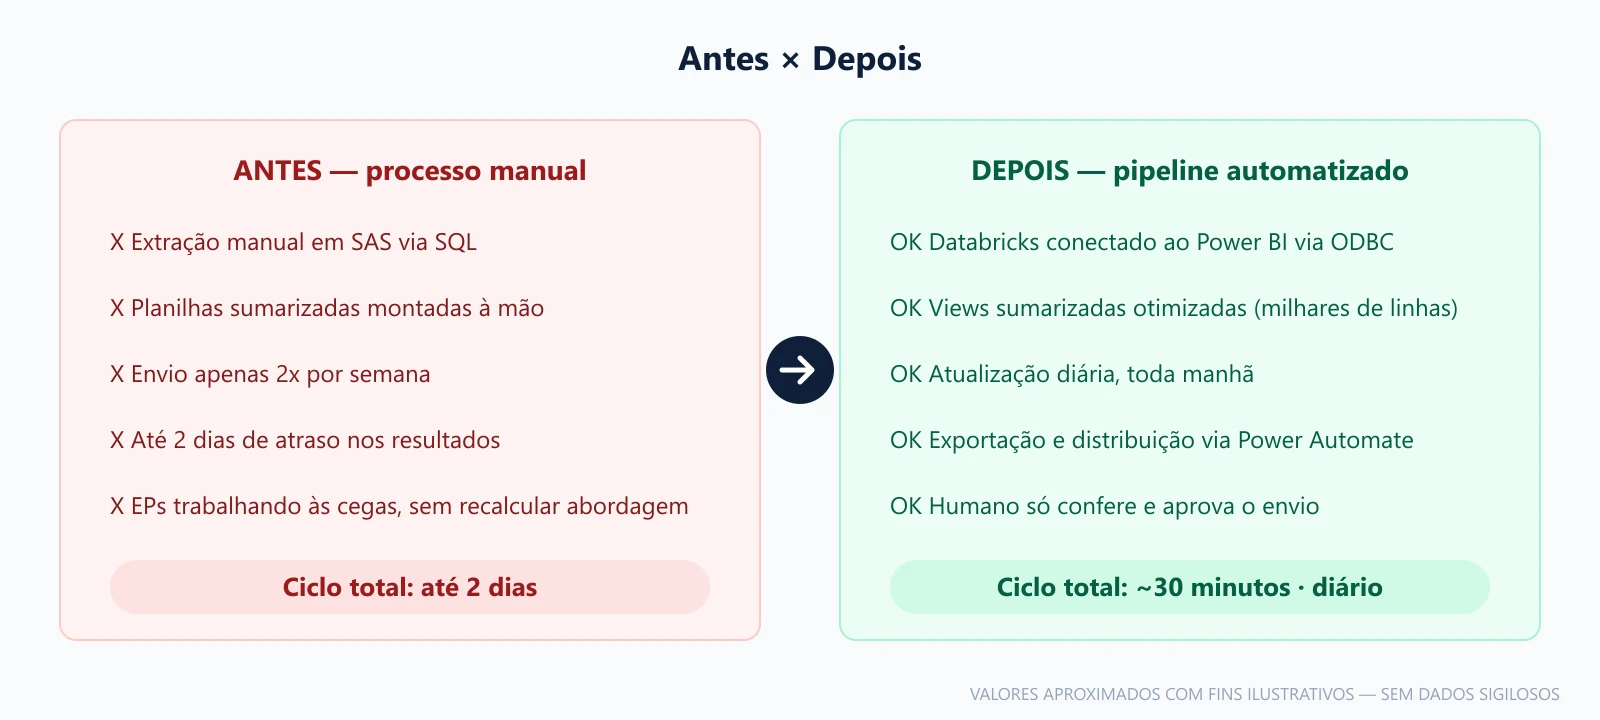
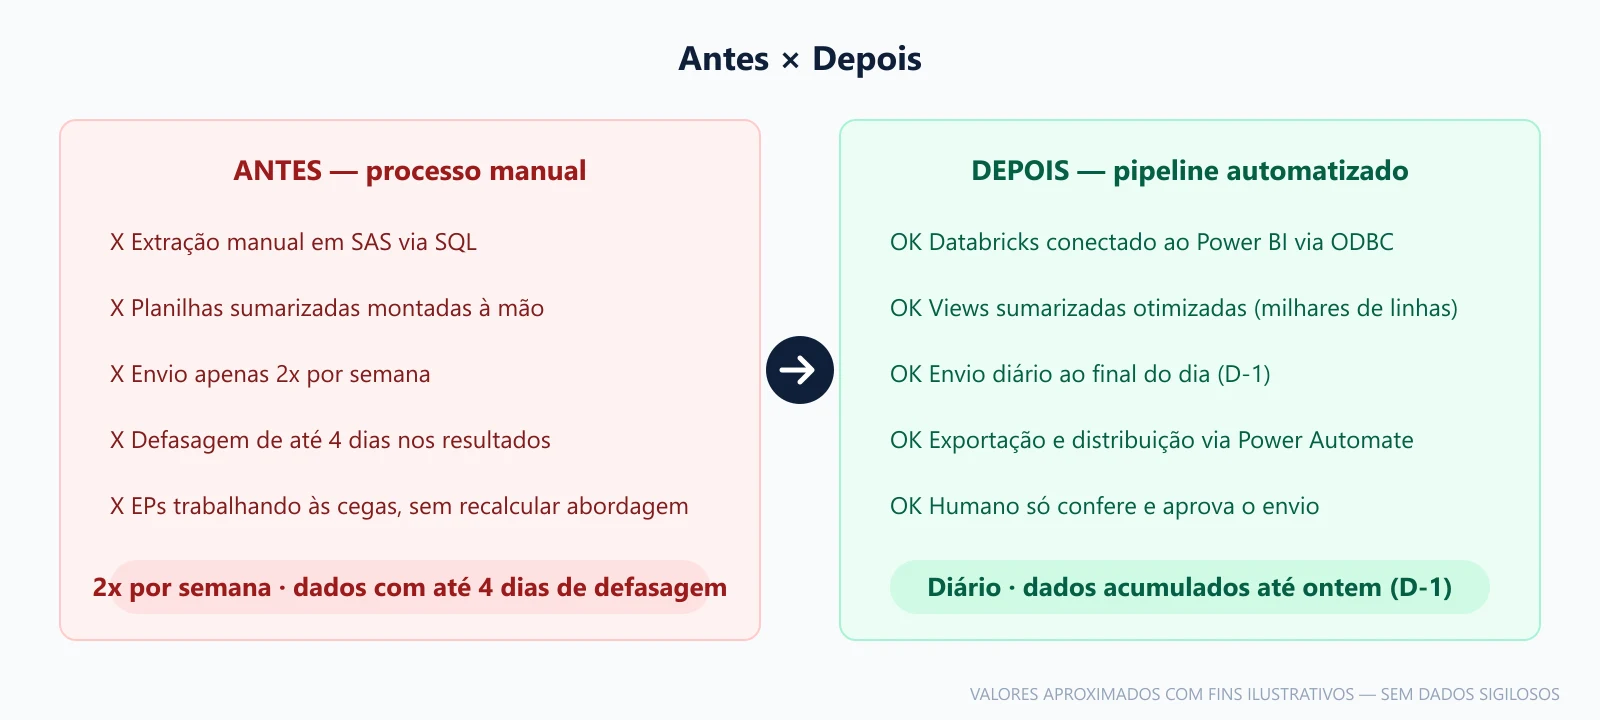
fix: correct report timing facts and genericize schema names
Reports are sent end-of-day with D-1 data (not mornings); legacy process
had up to 4-day lag (Tue/Thu cadence). Dimension names in diagrams and
text replaced with generic equivalents to avoid exposing internal model.

Generated with [Devin](https://devin.ai)

diff --git a/src/translation/languages/pt/pt.ts b/src/translation/languages/pt/pt.ts
@@ -299,21 +299,21 @@ const messages = {
         study_cases_evolution_title: 'Evolução Contínua',
         study_cases_evolution_description: 'Através destes estudos de caso, demonstro minha evolução contínua em Product Design, aplicando metodologias centradas no usuário e mantendo um Design System robusto e escalável.',        
         santander_case_title: 'Ranking de Meritocracia — Recuperação de Crédito',
-        santander_case_summary: 'Painel gerencial que define a remuneração variável de 9 empresas de cobrança. Pipeline de dados redesenhado de ponta a ponta: o que levava até 2 dias e saía 2x por semana agora chega toda manhã — ciclo completo em ~30 minutos.',
+        santander_case_summary: 'Painel gerencial que define a remuneração variável de 9 empresas de cobrança. Pipeline de dados redesenhado de ponta a ponta: o que saía apenas 2x por semana, com defasagem de até 4 dias, agora é enviado todo dia útil ao final do dia, com resultados acumulados até ontem (D-1) — ciclo completo em ~30 minutos.',
         sant_overview_title: 'Visão geral',
         sant_overview_p1: 'Case do meu trabalho atual como Data Visualization Specialist na MJV, alocado no Santander, no setor de recuperação de crédito. Projeto principal há 1 ano: o ranking de meritocracia do call center de cobrança do varejo — o painel cuja posição aumenta ou reduz diretamente a remuneração das 9 empresas parceiras de cobrança (EPs).',
         sant_overview_p2: 'Por NDA, dados reais, regras de negócio detalhadas e visuais originais não podem ser exibidos. Todas as imagens deste case são reconstruções com dados fictícios.',
         sant_context_title: 'O contexto: remuneração em jogo',
         sant_context_p1: 'Na operação de recuperação de crédito do varejo, a cobrança é executada por 9 empresas parceiras. O ranking de meritocracia consolida o atingimento de metas de cada uma — e o resultado não é apenas informativo: ele aumenta ou reduz diretamente a remuneração das empresas. Um ranking atrasado ou incorreto significa cobradores trabalhando às cegas, com rotas e abordagens decididas sem dados.',
-        sant_context_p2: 'Quando assumi o projeto, o processo era manual: extração em SAS via SQL, planilhas sumarizadas montadas à mão, envio apenas 2x por semana e até 2 dias de atraso. As EPs reclamavam com razão: sem o desempenho atualizado, era impossível recalcular abordagens a tempo de fazer diferença no mês.',
+        sant_context_p2: 'Quando assumi o projeto, o processo era manual: extração em SAS via SQL, planilhas sumarizadas montadas à mão, envio apenas 2x por semana — terças e quintas, com dados defasados em até 4 dias. As EPs reclamavam com razão: sem o desempenho atualizado, era impossível recalcular abordagens a tempo de fazer diferença no mês.',
         sant_role_title: 'Meu papel: do pipeline ao pixel',
         sant_role_p1: 'Sou responsável pela manutenção do ranking, pelo envio dos relatórios diários e pela formalização do faturamento após cada fechamento — rotina crítica para as EPs. O trabalho é end-to-end: entendimento do negócio com stakeholders, modelagem dos dados, medidas DAX, design dos visuais e aprovação de conceitos e mockups diretamente com a liderança e representantes dos setores envolvidos.',
         sant_eng_title: 'Engenharia de dados: fonte limpa e otimizada',
         sant_eng_p1: 'Substituí a extração manual por um pipeline Databricks → ODBC → Power BI, com views sumarizadas que reduzem o volume a milhares de linhas — o suficiente para o painel atualizar por completo em ~10 minutos.',
-        sant_eng_p2: 'O modelo segue star schema: uma fato de atingimento no centro e dimensões como dim_eps (as empresas de cobrança), dim_produto (segmentos — imobiliário, consignado etc.), dim_pesos (pesos dos indicadores) e dim_data. A estrutura mantém as consultas rápidas e as medidas auditáveis.',
+        sant_eng_p2: 'O modelo segue star schema: uma fato de atingimento no centro e dimensões como dim_empresa (as empresas de cobrança), dim_segmento (imobiliário, consignado etc.), dim_indicador (pesos e regras) e dim_data. A estrutura mantém as consultas rápidas e as medidas auditáveis.',
         sant_eng_p3: 'Como as regras de negócio e os conceitos de apuração mudam com frequência, organizei as medidas DAX de forma modular — permitindo trocar layouts e consultar o histórico sem reescrever o modelo.',
         sant_auto_title: 'Automação: de 2 dias para 30 minutos',
-        sant_auto_p1: 'Desenhei sozinho uma automação com Power Automate e Microsoft Fabric, disparada por gatilho de recorrência diária: atualização do painel (~10 min), exportação automática dos PDFs (~7 min) e conferência humana antes do envio pela caixa de correio oficial. O ciclo inteiro fecha em no máximo 30 minutos — e o que era tarefa manual de parte da equipe virou verificação de qualidade.',
+        sant_auto_p1: 'Desenhei sozinho uma automação com Power Automate e Microsoft Fabric, disparada por gatilho de recorrência diária: atualização do painel (~10 min), exportação automática dos PDFs (~7 min) e conferência humana antes do envio pela caixa de correio oficial, ao final do dia. O ciclo inteiro fecha em no máximo 30 minutos — e o que era tarefa manual de parte da equipe virou verificação de qualidade.',
         sant_design_title: 'Design de informação a serviço da decisão',
         sant_design_p1: 'Painel gerencial não é vitrine — é ferramenta de decisão. A hierarquia visual foi desenhada para o teste dos 30 segundos: posição no ranking, distância da meta e tendência são lidos de imediato, com segmentos e detalhes disponíveis em camadas. Conceitos e mockups passam por aprovação com stakeholders antes de qualquer implementação.',
         sant_mockup_caption: 'Mockup reconstruído com dados 100% fictícios para este portfólio — nenhuma informação real ou sigilosa é exibida.',
@@ -324,7 +324,7 @@ const messages = {
         sant_ai_p1: 'Uso Devin e GitHub Copilot no dia a dia — por decisão consciente. Delego à IA a implementação de tabelas, ajustes e visuais a partir de prompts e mockups que desenho, e concentro meu tempo no que não dá para delegar: entender o negócio, validar a lógica de apuração, revisar cada saída e construir o storytelling. Ajustes finos de DAX e modelagem seguem manuais quando a regra exige precisão.',
         sant_ai_p2: 'O resultado é um ciclo de entrega mais rápido sem abrir mão de qualidade — porque a revisão humana é parte do processo, não um passo opcional.',
         sant_impact_title: 'Impacto e limites declarados',
-        sant_impact_p1: 'De 2x por semana para todos os dias: as EPs acompanham o desempenho cada manhã e recalculam rotas e abordagens no mesmo dia — não dois dias depois. No fechamento mensal, a formalização do faturamento passou a seguir rotina estruturada (jobs + envio), reduzindo o risco de erro num processo que movimenta a remuneração de 9 empresas.',
+        sant_impact_p1: 'De 2x por semana para todos os dias: as EPs recebem o desempenho ao final de cada dia útil, consolidado até o dia anterior (D-1), e recalculam rotas e abordagens com base em dados frescos — não com até 4 dias de defasagem. No fechamento mensal, a formalização do faturamento passou a seguir rotina estruturada (jobs + envio), reduzindo o risco de erro num processo que movimenta a remuneração de 9 empresas.',
         sant_impact_p2: 'Limites declarados: os números citados são aproximações públicas; o painel depende do fechamento das fontes operacionais e da conferência humana diária. Automação não elimina a necessidade de validação — apenas a desloca para onde agrega mais valor.',
         // Aria labels (acessibilidade)
         aria: {

diff --git a/src/translation/languages/en/en.ts b/src/translation/languages/en/en.ts
@@ -300,21 +300,21 @@ const messages = {
         study_cases_evolution_description: 'Through these case studies, I demonstrate my continuous evolution in Product Design, applying user-centered methodologies and maintaining a robust and scalable Design System.',        
         // Aria labels (accessibility)
         santander_case_title: 'Meritocracy Ranking — Credit Recovery',
-        santander_case_summary: 'Management dashboard that determines the variable compensation of 9 collection companies. End-to-end redesigned data pipeline: what used to take up to 2 days and ship twice a week now arrives every morning — full cycle in ~30 minutes.',
+        santander_case_summary: 'Management dashboard that determines the variable compensation of 9 collection companies. End-to-end redesigned data pipeline: what used to ship only twice a week, lagging up to 4 days behind, is now sent every business day at end of day, with results accumulated through yesterday (D-1) — full cycle in ~30 minutes.',
         sant_overview_title: 'Overview',
         sant_overview_p1: 'A case from my current role as Data Visualization Specialist at MJV, embedded at Santander in the credit recovery division. Main project for the past year: the meritocracy ranking for the retail collections call center — the dashboard whose positions directly increase or decrease the compensation of the 9 partner collection companies (EPs).',
         sant_overview_p2: 'Under NDA, real data, detailed business rules and original visuals cannot be shown. All images in this case study are reconstructions with fictitious data.',
         sant_context_title: 'The context: compensation at stake',
         sant_context_p1: 'In retail credit recovery, collections are executed by 9 partner companies. The meritocracy ranking consolidates each company\'s target achievement — and the result is not merely informational: it directly increases or decreases their compensation. A delayed or incorrect ranking means collectors working blind, with routing and approach decisions made without data.',
-        sant_context_p2: 'When I took over the project, the process was manual: SAS extraction via SQL, hand-assembled summarized spreadsheets, sent only twice a week and up to 2 days late. The companies complained with good reason: without updated performance, it was impossible to recalculate collection approaches in time to make a difference in the month.',
+        sant_context_p2: 'When I took over the project, the process was manual: SAS extraction via SQL, hand-assembled summarized spreadsheets, sent only twice a week — Tuesdays and Thursdays, with data lagging up to 4 days behind operations. The companies complained with good reason: without updated performance, it was impossible to recalculate collection approaches in time to make a difference in the month.',
         sant_role_title: 'My role: from pipeline to pixel',
         sant_role_p1: 'I am responsible for maintaining the ranking, sending daily reports, and formalizing invoicing after each monthly close — a critical routine for the collection companies. The work is end-to-end: business understanding with stakeholders, data modeling, DAX measures, visual design, and approval of concepts and mockups directly with leadership and sector representatives.',
         sant_eng_title: 'Data engineering: clean, optimized source',
         sant_eng_p1: 'I replaced manual extraction with a Databricks → ODBC → Power BI pipeline, with summarized views that reduce volume to thousands of rows — enough for a full dashboard refresh in ~10 minutes.',
-        sant_eng_p2: 'The model follows a star schema: a central achievement fact table with dimensions such as dim_eps (the collection companies), dim_produto (segments — real estate, payroll loans, etc.), dim_pesos (indicator weights) and dim_data. The structure keeps queries fast and measures auditable.',
+        sant_eng_p2: 'The model follows a star schema: a central achievement fact table with dimensions such as dim_empresa (the collection companies), dim_segmento (real estate, payroll loans, etc.), dim_indicador (weights and rules) and dim_data. The structure keeps queries fast and measures auditable.',
         sant_eng_p3: 'Since business rules and calculation concepts change frequently, I organized the DAX measures in a modular fashion — allowing layout swaps and historical queries without rewriting the model.',
         sant_auto_title: 'Automation: from 2 days to 30 minutes',
-        sant_auto_p1: 'I single-handedly designed an automation with Power Automate and Microsoft Fabric, triggered by a daily recurrence: dashboard refresh (~10 min), automatic PDF export (~7 min) and human review before sending through the official mailbox. The entire cycle completes within 30 minutes at most — and what used to be manual work for part of the team became quality verification.',
+        sant_auto_p1: 'I single-handedly designed an automation with Power Automate and Microsoft Fabric, triggered by a daily recurrence: dashboard refresh (~10 min), automatic PDF export (~7 min) and human review before sending through the official mailbox, at end of day. The entire cycle completes within 30 minutes at most — and what used to be manual work for part of the team became quality verification.',
         sant_design_title: 'Information design in service of decisions',
         sant_design_p1: 'A management dashboard is not a showcase — it is a decision tool. The visual hierarchy was designed for the 30-second test: ranking position, distance to target and trend are read immediately, with segments and details available in layers. Concepts and mockups go through stakeholder approval before any implementation.',
         sant_mockup_caption: 'Mockup rebuilt with 100% fictitious data for this portfolio — no real or confidential information is displayed.',
@@ -325,7 +325,7 @@ const messages = {
         sant_ai_p1: 'I use Devin and GitHub Copilot daily — as a conscious decision. I delegate to AI the implementation of tables, adjustments and visuals based on prompts and mockups I design, and focus my time on what cannot be delegated: understanding the business, validating calculation logic, reviewing every output and building the storytelling. Fine DAX and modeling adjustments remain manual when rules demand precision.',
         sant_ai_p2: 'The result is a faster delivery cycle without compromising quality — because human review is part of the process, not an optional step.',
         sant_impact_title: 'Impact and declared limits',
-        sant_impact_p1: 'From twice a week to every day: the companies track performance each morning and recalculate routing and collection approaches the same day — not two days later. At monthly close, invoicing formalization now follows a structured routine (jobs + delivery), reducing the risk of error in a process that moves the compensation of 9 companies.',
+        sant_impact_p1: 'From twice a week to every day: the companies receive performance at the end of each business day, consolidated through the previous day (D-1), and recalculate routing and collection approaches based on fresh data — not data lagging up to 4 days behind. At monthly close, invoicing formalization now follows a structured routine (jobs + delivery), reducing the risk of error in a process that moves the compensation of 9 companies.',
         sant_impact_p2: 'Declared limits: the figures cited are public approximations; the dashboard depends on the closing of operational sources and daily human review. Automation does not eliminate the need for validation — it shifts it to where it adds the most value.',
         aria: {
           main_menu: 'Main menu',
